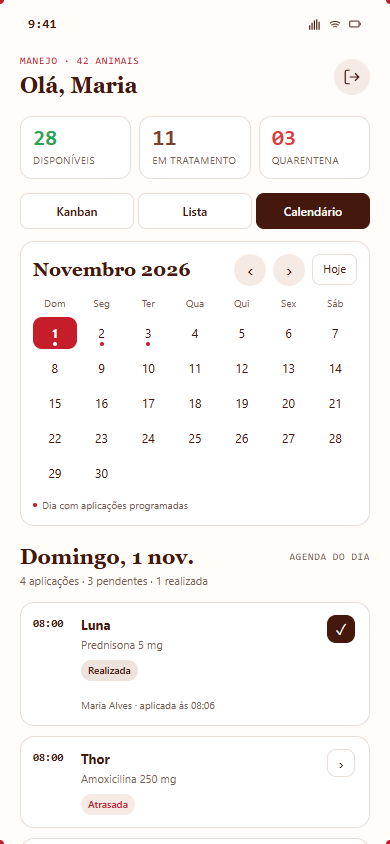
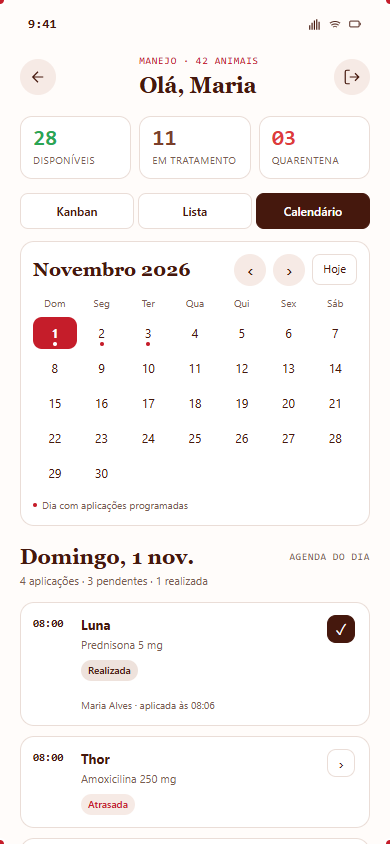
feat(core): adicione retorno visível nas telas internas [003-FR-014]

Changed region(s): [[0.1846, 0.0616, 0.4615, 0.1232], [0.4923, 0.0616, 0.6769, 0.1232], [0.0308, 0.0616, 0.1538, 0.1232]]

diff --git a/design/abrigo-dos-anjos-figma.html b/design/abrigo-dos-anjos-figma.html
@@ -645,7 +645,7 @@
             <div class="mb">
               <div class="mb-statusbar"><span>9:41</span><div class="icons"><svg viewBox="0 0 24 24" fill="currentColor"><path d="M2 22h2v-8H2zM6 22h2V10H6zM10 22h2V6h-2zM14 22h2V4h-2zM18 22h2V8h-2z"/></svg><svg viewBox="0 0 24 24" fill="none" stroke="currentColor" stroke-width="1.6"><path d="M3 11a14 14 0 0 1 18 0M6 14a10 10 0 0 1 12 0M9 17a6 6 0 0 1 6 0"/></svg><svg viewBox="0 0 24 24" fill="none" stroke="currentColor" stroke-width="1.6"><rect x="3" y="7" width="16" height="10" rx="2"/><path d="M21 10v4"/></svg></div></div>
               <div class="auth-body">
-                <div class="auth-logo"><img src="image.png" alt="Abrigo dos Anjos — Humanizando Vidas" width="140" height="140" /></div>
+                <div style="position:relative"><button class="mb-icon-btn" data-nav="screen-1" aria-label="Voltar" title="Voltar" style="position:absolute;left:0;top:0"><svg viewBox="0 0 24 24" fill="none" stroke="currentColor" stroke-width="1.8"><path d="M19 12H5m7-7-7 7 7 7"/></svg></button><div class="auth-logo"><img src="image.png" alt="Abrigo dos Anjos — Humanizando Vidas" width="140" height="140" /></div></div>
                 <h1 class="auth-title">Acesso restrito</h1>
                 <p class="auth-sub">Entre com suas credenciais de voluntário para acessar o painel administrativo.</p>
                 <div class="field-group">
@@ -679,7 +679,7 @@
             <div class="resize-handle tl"></div><div class="resize-handle tr"></div><div class="resize-handle bl"></div><div class="resize-handle br"></div>
             <div class="mb">
               <div class="mb-statusbar"><span>9:41</span><div class="icons"><svg viewBox="0 0 24 24" fill="currentColor"><path d="M2 22h2v-8H2zM6 22h2V10H6zM10 22h2V6h-2zM14 22h2V4h-2zM18 22h2V8h-2z"/></svg><svg viewBox="0 0 24 24" fill="none" stroke="currentColor" stroke-width="1.6"><path d="M3 11a14 14 0 0 1 18 0M6 14a10 10 0 0 1 12 0M9 17a6 6 0 0 1 6 0"/></svg><svg viewBox="0 0 24 24" fill="none" stroke="currentColor" stroke-width="1.6"><rect x="3" y="7" width="16" height="10" rx="2"/><path d="M21 10v4"/></svg></div></div>
-              <div class="mb-app-bar">
+              <div class="mb-app-bar"><button class="mb-icon-btn" data-nav="screen-4" aria-label="Voltar" title="Voltar" style="flex-shrink:0;margin-right:8px"><svg viewBox="0 0 24 24" fill="none" stroke="currentColor" stroke-width="1.8"><path d="M19 12H5m7-7-7 7 7 7"/></svg></button>
                 <div><div class="subtitle">Manejo · 42 animais</div><div class="title">Olá, Maria</div></div>
                 <button class="mb-icon-btn" data-nav="screen-4" title="Sair"><svg viewBox="0 0 24 24" fill="none" stroke="currentColor"><path d="M9 21H5a2 2 0 0 1-2-2V5a2 2 0 0 1 2-2h4M16 17l5-5-5-5M21 12H9"/></svg></button>
               </div>
@@ -911,7 +911,7 @@
 
           <article class="artboard" data-artboard="screen-7" data-od-id="screen-7" data-name="Calendário de medicações" data-index="07" style="left:100px;top:2020px;">
             <span class="artboard-label">Calendário · proposta visual</span><span class="artboard-num">07</span><span class="resize-handle tl"></span><span class="resize-handle tr"></span><span class="resize-handle bl"></span><span class="resize-handle br"></span>
-            <div class="mb med-design"><div class="mb-statusbar"><span>9:41</span><div class="icons"><svg viewBox="0 0 24 24" fill="currentColor"><path d="M2 22h2v-8H2zM6 22h2V10H6zM10 22h2V6h-2zM14 22h2V4h-2zM18 22h2V8h-2z"/></svg><svg viewBox="0 0 24 24" fill="none" stroke="currentColor" stroke-width="1.6"><path d="M3 11a14 14 0 0 1 18 0M6 14a10 10 0 0 1 12 0M9 17a6 6 0 0 1 6 0"/></svg><svg viewBox="0 0 24 24" fill="none" stroke="currentColor" stroke-width="1.6"><rect x="3" y="7" width="16" height="10" rx="2"/><path d="M21 10v4"/></svg></div></div><div class="mb-app-bar">
+            <div class="mb med-design"><div class="mb-statusbar"><span>9:41</span><div class="icons"><svg viewBox="0 0 24 24" fill="currentColor"><path d="M2 22h2v-8H2zM6 22h2V10H6zM10 22h2V6h-2zM14 22h2V4h-2zM18 22h2V8h-2z"/></svg><svg viewBox="0 0 24 24" fill="none" stroke="currentColor" stroke-width="1.6"><path d="M3 11a14 14 0 0 1 18 0M6 14a10 10 0 0 1 12 0M9 17a6 6 0 0 1 6 0"/></svg><svg viewBox="0 0 24 24" fill="none" stroke="currentColor" stroke-width="1.6"><rect x="3" y="7" width="16" height="10" rx="2"/><path d="M21 10v4"/></svg></div></div><div class="mb-app-bar"><button class="mb-icon-btn" data-nav="screen-4" aria-label="Voltar" title="Voltar" style="flex-shrink:0;margin-right:8px"><svg viewBox="0 0 24 24" fill="none" stroke="currentColor" stroke-width="1.8"><path d="M19 12H5m7-7-7 7 7 7"/></svg></button>
                 <div><div class="subtitle">Manejo · 42 animais</div><div class="title">Olá, Maria</div></div>
                 <button class="mb-icon-btn" data-nav="screen-4" title="Sair"><svg viewBox="0 0 24 24" fill="none" stroke="currentColor"><path d="M9 21H5a2 2 0 0 1-2-2V5a2 2 0 0 1 2-2h4M16 17l5-5-5-5M21 12H9"/></svg></button>
               </div>

diff --git a/test/ui/core/widgets/app_back_button_test.dart b/test/ui/core/widgets/app_back_button_test.dart
@@ -1,0 +1,72 @@
+import 'package:flutter/material.dart';
+import 'package:flutter_test/flutter_test.dart';
+import 'package:abrigo_dos_anjos/ui/core/widgets/app_back_button.dart';
+
+void main() {
+  testWidgets(
+    'visible return pops only the current route and preserves previous screen',
+    (tester) async {
+      await tester.pumpWidget(
+        MaterialApp(
+          home: Builder(
+            builder: (context) => Scaffold(
+              body: TextButton(
+                onPressed: () => Navigator.push(
+                  context,
+                  MaterialPageRoute<void>(
+                    builder: (_) => Scaffold(
+                      appBar: AppBar(leading: const AppBackButton()),
+                      body: const Text('Tela interna'),
+                    ),
+                  ),
+                ),
+                child: const Text('Origem'),
+              ),
+            ),
+          ),
+        ),
+      );
+      await tester.tap(find.text('Origem'));
+      await tester.pumpAndSettle();
+      expect(find.text('Tela interna'), findsOneWidget);
+      await tester.tap(find.byTooltip('Voltar'));
+      await tester.pumpAndSettle();
+      expect(find.text('Origem'), findsOneWidget);
+      expect(find.text('Tela interna'), findsNothing);
+    },
+  );
+  testWidgets(
+    'visible return respects a blocked route instead of bypassing its guard',
+    (tester) async {
+      await tester.pumpWidget(
+        MaterialApp(
+          home: Builder(
+            builder: (context) => Scaffold(
+              body: TextButton(
+                onPressed: () => Navigator.push(
+                  context,
+                  MaterialPageRoute<void>(
+                    builder: (_) => PopScope(
+                      canPop: false,
+                      child: Scaffold(
+                        appBar: AppBar(leading: const AppBackButton()),
+                        body: const Text('Acesso em verificação'),
+                      ),
+                    ),
+                  ),
+                ),
+                child: const Text('Origem'),
+              ),
+            ),
+          ),
+        ),
+      );
+      await tester.tap(find.text('Origem'));
+      await tester.pumpAndSettle();
+      await tester.tap(find.byTooltip('Voltar'));
+      await tester.pumpAndSettle();
+      expect(find.text('Acesso em verificação'), findsOneWidget);
+      expect(tester.takeException(), isNull);
+    },
+  );
+}

diff --git a/lib/ui/features/auth/views/login_screen.dart b/lib/ui/features/auth/views/login_screen.dart
@@ -1,3 +1,4 @@
+import '../../../core/widgets/app_back_button.dart';
 import 'package:flutter/material.dart';
 import '../view_models/login_view_model.dart';
 
@@ -42,15 +43,27 @@ class _LoginScreenState extends State<LoginScreen> {
         builder: (context, _) => ListView(
           padding: const EdgeInsets.fromLTRB(28, 24, 28, 24),
           children: [
-            Center(
-              child: Image.asset(
-                'assets/images/logo.png',
-                key: const ValueKey('loginShelterLogo'),
-                width: 140,
-                height: 140,
-                fit: BoxFit.contain,
-                semanticLabel: 'Abrigo dos Anjos — Humanizando Vidas',
-              ),
+            Stack(
+              children: [
+                Center(
+                  child: Image.asset(
+                    'assets/images/logo.png',
+                    key: const ValueKey('loginShelterLogo'),
+                    width: 140,
+                    height: 140,
+                    fit: BoxFit.contain,
+                    semanticLabel: 'Abrigo dos Anjos — Humanizando Vidas',
+                  ),
+                ),
+                Positioned(
+                  left: 0,
+                  top: 0,
+                  child: AppBackButton(
+                    enabled: !widget.viewModel.state.busy,
+                    onPressed: widget.onCancel,
+                  ),
+                ),
+              ],
             ),
             const SizedBox(height: 18),
             const Text(

diff --git a/test/ui/features/auth/views/login_screen_test.dart b/test/ui/features/auth/views/login_screen_test.dart
@@ -117,4 +117,33 @@ void main() {
       expect(tester.takeException(), isNull);
     },
   );
+  testWidgets(
+    'login return uses cancellation during reauthentication and keeps logo centered',
+    (tester) async {
+      final repo = FakeAuthRepository();
+      addTearDown(repo.dispose);
+      final vm = LoginViewModel(repo);
+      addTearDown(vm.dispose);
+      var cancelled = 0;
+      await tester.pumpWidget(
+        MaterialApp(
+          home: LoginScreen(
+            viewModel: vm,
+            navigateOnSuccess: false,
+            onCancel: () {
+              cancelled++;
+            },
+          ),
+        ),
+      );
+      await tester.tap(find.byTooltip('Voltar'));
+      await tester.pumpAndSettle();
+      expect(cancelled, 1);
+      expect(find.byKey(const ValueKey('loginShelterLogo')), findsOneWidget);
+      expect(
+        tester.getCenter(find.byKey(const ValueKey('loginShelterLogo'))).dx,
+        tester.view.physicalSize.width / tester.view.devicePixelRatio / 2,
+      );
+    },
+  );
 }

diff --git a/integration_test/medication_calendar_flow_test.dart b/integration_test/medication_calendar_flow_test.dart
@@ -201,7 +201,7 @@ void main() {
         );
         expect(confirmed['animal']['is_published'], false);
 
-        await tester.binding.handlePopRoute();
+        await tester.tap(find.byTooltip('Voltar'));
         await tester.pumpAndSettle();
         await tester.tap(find.text('Calendário'));
         await tester.pumpAndSettle();
@@ -292,6 +292,9 @@ void main() {
         await tester.pumpAndSettle();
         await tester.tap(find.text('Kanban'));
         await tester.pumpAndSettle();
+        await tester.tap(find.byTooltip('Voltar'));
+        await tester.pumpAndSettle();
+        expect(find.text('Área do voluntário'), findsOneWidget);
         expect(tester.takeException(), isNull);
       } finally {
         await second.auth.signOut(scope: SignOutScope.local);

diff --git a/lib/ui/features/animals/views/dashboard_screen.dart b/lib/ui/features/animals/views/dashboard_screen.dart
@@ -1,3 +1,4 @@
+import '../../../core/widgets/app_back_button.dart';
 import '../../medications/views/medication_calendar_panel.dart';
 import '../../medications/view_models/medication_calendar_view_model.dart';
 import 'package:flutter/material.dart';
@@ -72,6 +73,8 @@ class _DashboardScreenState extends State<DashboardScreen>
               padding: const EdgeInsets.fromLTRB(20, 12, 20, 14),
               child: Row(
                 children: [
+                  const AppBackButton(),
+                  const SizedBox(width: 4),
                   Expanded(
                     child: Column(
                       crossAxisAlignment: CrossAxisAlignment.start,

diff --git a/lib/ui/features/favorites/views/favorites_screen.dart b/lib/ui/features/favorites/views/favorites_screen.dart
@@ -1,3 +1,4 @@
+import '../../../core/widgets/app_back_button.dart';
 import 'package:flutter/material.dart';
 import '../view_models/favorites_view_model.dart';
 import '../../../core/widgets/public_animal_list.dart';
@@ -7,7 +8,10 @@ class FavoritesScreen extends StatelessWidget {
   final FavoritesViewModel viewModel;
   @override
   Widget build(BuildContext context) => Scaffold(
-    appBar: AppBar(title: const Text('Favoritos')),
+    appBar: AppBar(
+      leading: const AppBackButton(),
+      title: const Text('Favoritos'),
+    ),
     body: SafeArea(
       child: ListenableBuilder(
         listenable: viewModel,

diff --git a/lib/ui/features/auth/views/volunteer_access_screen.dart b/lib/ui/features/auth/views/volunteer_access_screen.dart
@@ -1,3 +1,4 @@
+import '../../../core/widgets/app_back_button.dart';
 import 'package:flutter/material.dart';
 import '../view_models/session_view_model.dart';
 
@@ -6,7 +7,10 @@ class VolunteerAccessScreen extends StatelessWidget {
   final SessionViewModel viewModel;
   @override
   Widget build(BuildContext context) => Scaffold(
-    appBar: AppBar(title: const Text('Área do voluntário')),
+    appBar: AppBar(
+      leading: const AppBackButton(),
+      title: const Text('Área do voluntário'),
+    ),
     body: ListView(
       padding: const EdgeInsets.all(24),
       children: [

diff --git a/lib/ui/features/animals/views/animal_editor_screen.dart b/lib/ui/features/animals/views/animal_editor_screen.dart
@@ -1,3 +1,4 @@
+import '../../../core/widgets/app_back_button.dart';
 import '../../medications/view_models/medication_editor_view_model.dart';
 import '../../medications/views/medication_editor_panel.dart';
 import '../view_models/dashboard_view_model.dart';
@@ -78,6 +79,7 @@ class AnimalEditorScreen extends StatelessWidget {
       return ScaffoldMessenger(
         child: Scaffold(
           appBar: AppBar(
+            leading: const AppBackButton(),
             title: Text(
               draft.id == null ? 'Cadastrar animal' : 'Editar animal',
             ),

diff --git a/lib/ui/core/widgets/app_back_button.dart b/lib/ui/core/widgets/app_back_button.dart
@@ -1,0 +1,16 @@
+import 'package:flutter/material.dart';
+
+/// Visible return action; maybePop preserves route guards and does not sign out.
+class AppBackButton extends StatelessWidget {
+  const AppBackButton({super.key, this.onPressed, this.enabled = true});
+  final VoidCallback? onPressed;
+  final bool enabled;
+  @override
+  Widget build(BuildContext context) => IconButton(
+    tooltip: 'Voltar',
+    icon: const Icon(Icons.arrow_back),
+    onPressed: enabled
+        ? (onPressed ?? () => Navigator.of(context).maybePop())
+        : null,
+  );
+}

diff --git a/lib/ui/features/home/views/about_screen.dart b/lib/ui/features/home/views/about_screen.dart
@@ -1,3 +1,4 @@
+import '../../../core/widgets/app_back_button.dart';
 import 'package:flutter/material.dart';
 import '../view_models/about_view_model.dart';
 
@@ -6,7 +7,10 @@ class AboutScreen extends StatelessWidget {
   final AboutViewModel viewModel;
   @override
   Widget build(BuildContext context) => Scaffold(
-    appBar: AppBar(title: Text(viewModel.title)),
+    appBar: AppBar(
+      leading: const AppBackButton(),
+      title: Text(viewModel.title),
+    ),
     body: ListView(
       padding: const EdgeInsets.all(24),
       children: [

diff --git a/lib/ui/features/animals/views/managed_animals_screen.dart b/lib/ui/features/animals/views/managed_animals_screen.dart
@@ -1,3 +1,4 @@
+import '../../../core/widgets/app_back_button.dart';
 import 'package:flutter/material.dart';
 import '../view_models/managed_animals_view_model.dart';
 
@@ -7,6 +8,7 @@ class ManagedAnimalsScreen extends StatelessWidget {
   @override
   Widget build(BuildContext context) => Scaffold(
     appBar: AppBar(
+      leading: const AppBackButton(),
       title: const Text('Animais do abrigo'),
       actions: [
         IconButton(
